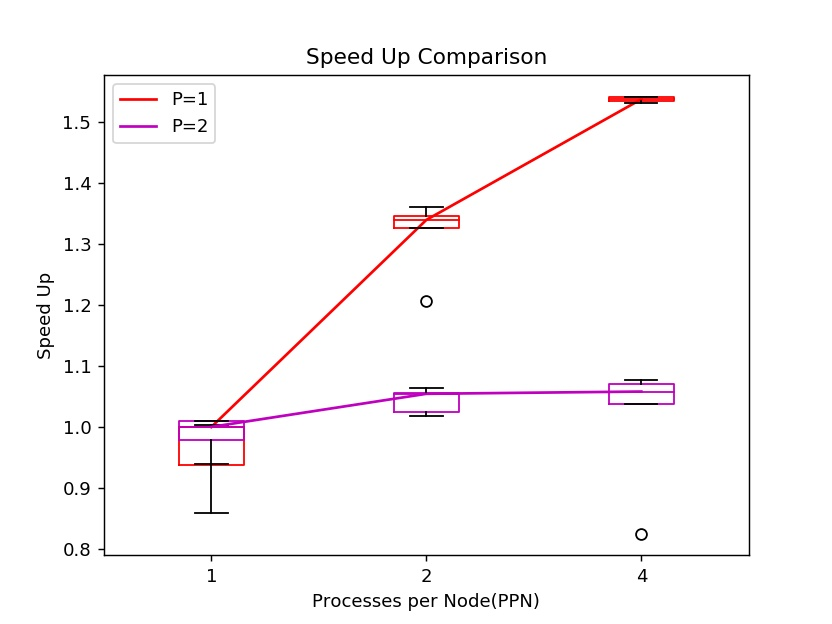
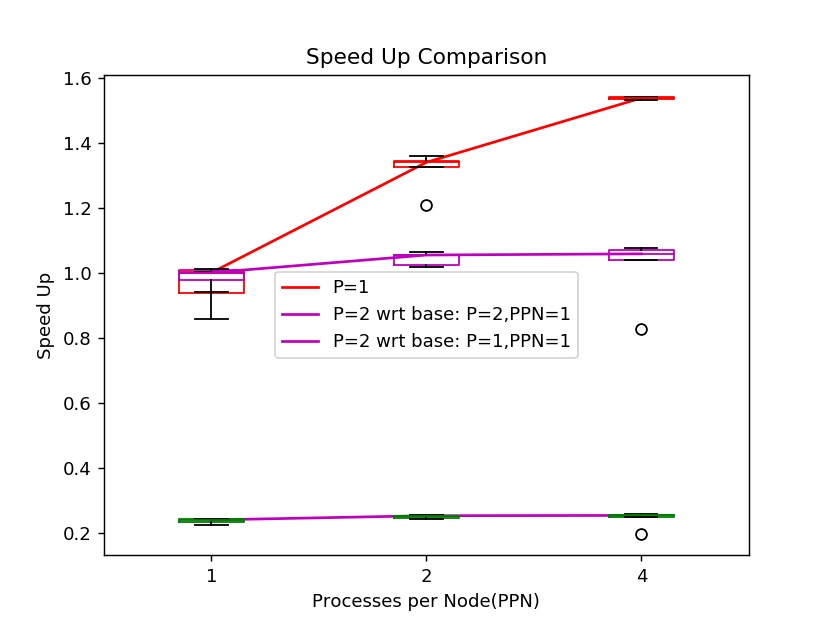
Modified PLot

diff --git a/Assignment3/plot.py b/Assignment3/plot.py
@@ -49,13 +49,18 @@ Ts_2 = np.median(opt2[0])
 
 su_1 =[[Ts_1/time  for time in times] for times in opt1]
 su_2 =[[Ts_2/time  for time in times] for times in opt2]
+su_3 =[[Ts_1/time  for time in times] for times in opt2]
 
 plt.figure()
 plt.plot(range(1,len(N)+1), np.array([np.median(times) for times in su_1]),color = colors[0], label=part[0])
 plt.boxplot(su_1, labels = N, medianprops = {'color':colors[0]}, boxprops = dict(color=colors[0]))
 
-plt.plot(range(1,len(N)+1), np.array([np.median(times) for times in su_2]),color = colors[1], label=part[1])
+plt.plot(range(1,len(N)+1), np.array([np.median(times) for times in su_2]),color = colors[1], label="P=2 wrt base: P=2,PPN=1")
 plt.boxplot(su_2, labels = N, medianprops = {'color':colors[1]}, boxprops = dict(color=colors[1]))
+
+plt.plot(range(1,len(N)+1), np.array([np.median(times) for times in su_3]),color = colors[1], label="P=2 wrt base: P=1,PPN=1")
+plt.boxplot(su_3, labels = N, medianprops = {'color':'g'}, boxprops = dict(color='g'))
+
 
 plt.legend()
 plt.xlabel('Processes per Node(PPN)')
